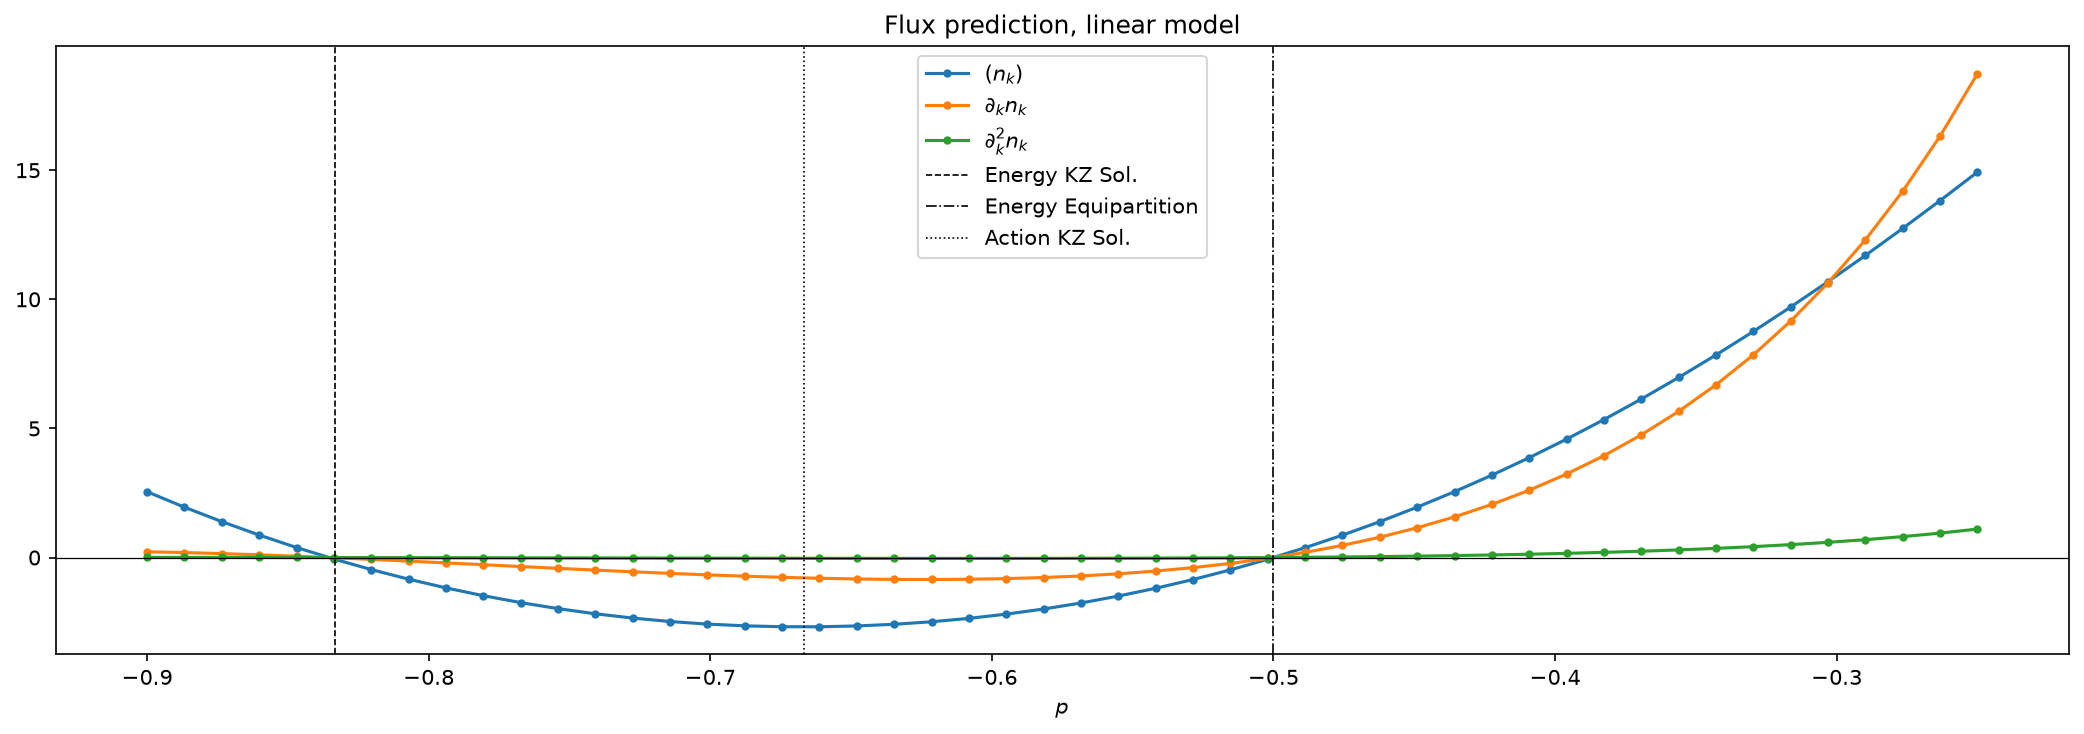
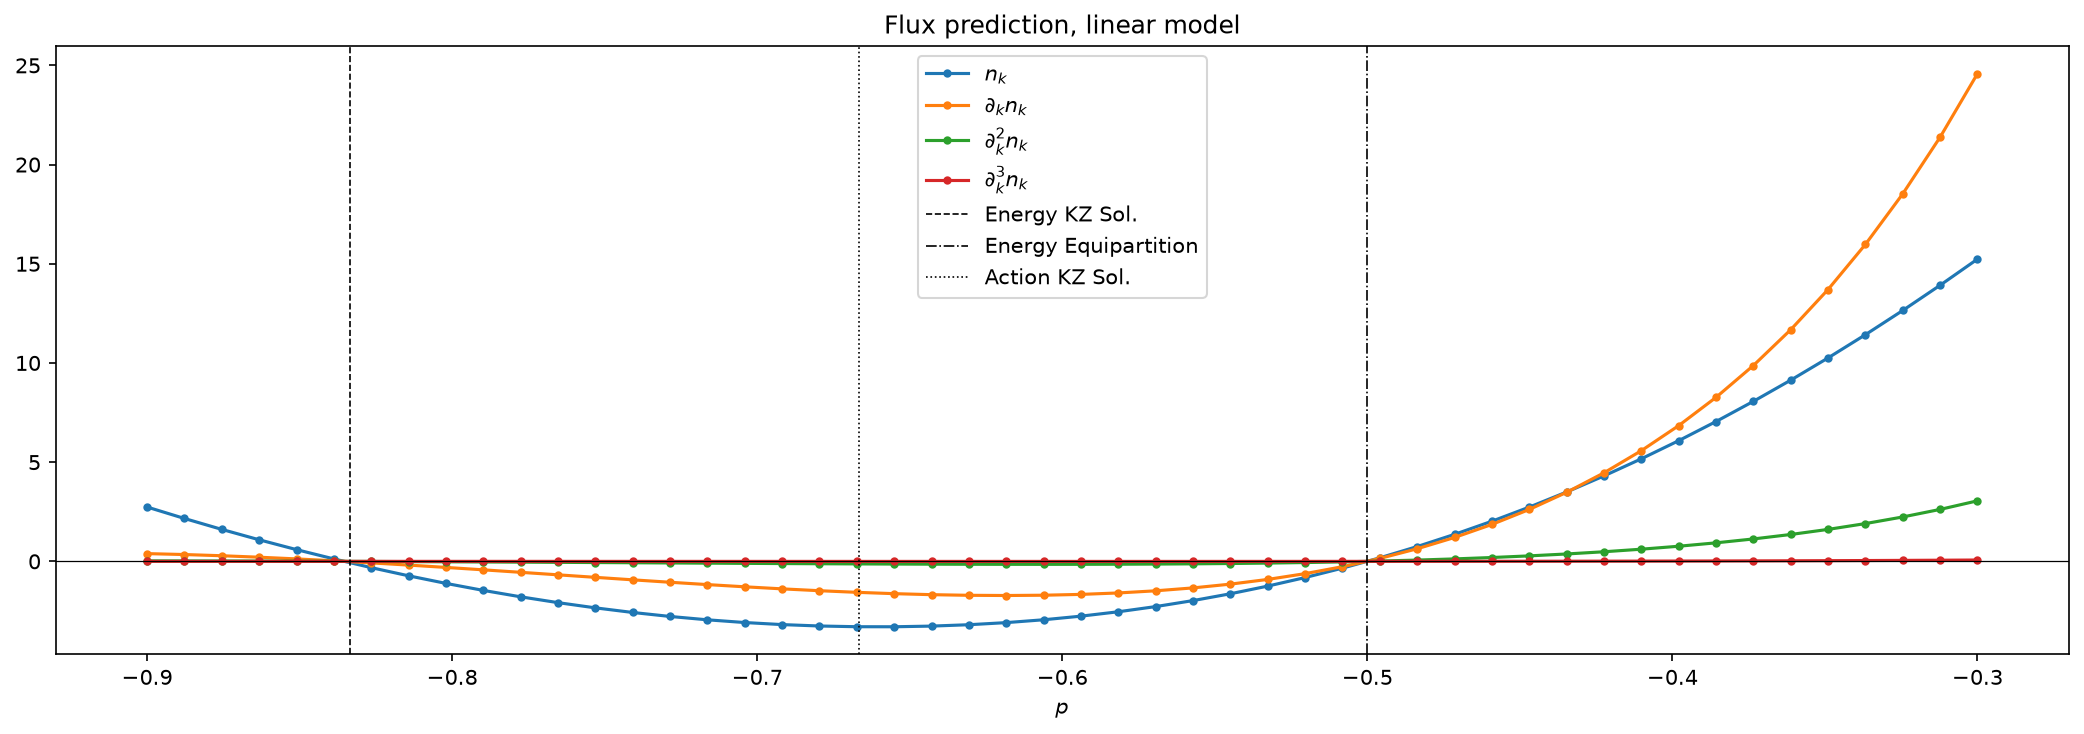
refactor: increase max_order to 3 in fitting functions and update derivative calculations

diff --git a/src/physics/linear_operator_library_mmt.py b/src/physics/linear_operator_library_mmt.py
@@ -13,13 +13,14 @@ def power_law_derivatives_linear(k, p, max_order, k_min, k_max):
     def nk(k,p): return N*(k ** p)
     def dk_nk(k,p): return N*(k ** (p-1)) *p 
     def d2k_nk2(k,p): return N*p*(p-1)*(k**(p-2))
+    def d3k_n_k3(k,p): return N*p*(p-1)*(p-2)*(k**(p-3))
 
     for order in range(max_order + 1):
-        derivs.append([nk, dk_nk, d2k_nk2][order](k, p))
+        derivs.append([nk, dk_nk, d2k_nk2, d3k_n_k3][order](k, p))
     return derivs
 
 def fit_operators_at_fixed_p_linear(p, A, k, k_min, k_max, beta=0.25,
-                                N=300, IntN=200, max_order=2, ridge_alpha = 1e-3):
+                                N=300, IntN=200, max_order=3, ridge_alpha = 1e-3):
     
     k = np.asarray(k)
 
@@ -39,10 +40,10 @@ def fit_operators_at_fixed_p_linear(p, A, k, k_min, k_max, beta=0.25,
     return (reg_exact.coef_,  r2_exact)
 
 def plot_coefficients_vs_p_linear(ps, A, k, k_min, k_max, beta=0.25,
-                               N=300, IntN=200, max_order=2, save_path=None, show=True):
+                               N=300, IntN=200, max_order=3, save_path=None, show=True):
     ps = np.asarray(ps)
 
-    labels = [r"$(n_k)$", r"$\partial_k n_k$", r"$\partial^2_k n_k$"
+    labels = [r"$n_k$", r"$\partial_k n_k$", r"$\partial^2_k n_k$", r"$\partial^3_k n_k$"
               ][:max_order + 1]
 
     res = { "exact": {lab: [] for lab in labels }}

diff --git a/main_mmt.py b/main_mmt.py
@@ -69,13 +69,13 @@ test_data = splits["test"]
 
 (coef_e_l, r2_e_l) = fit_operators_at_fixed_p_linear(
     p = -5/6, A = 1, k = np.linspace(0.1, 1, 50), k_min= config.K_MIN,
-    k_max = config.K_MAX, beta=0.25, N=300, IntN=200, max_order=2, ridge_alpha = 1e-3
+    k_max = config.K_MAX, beta=0.25, N=300, IntN=200, max_order=3, ridge_alpha = 1e-3
 )
 
 print("Coefficienti (solver MMT): ", coef_e_l, "| R^2: ", r2_e_l)
 
 plot_coefficients_vs_p_linear(
-    ps = np.linspace(-0.9, -0.25, 50), A = 1, k = np.linspace(0.1, 1.0, 50), beta = 0.25, 
-    k_min = config.K_MIN, k_max = config.K_MAX, N=300, IntN=200, max_order=2,
+    ps = np.linspace(-0.9, -0.3, 50), A = 1, k = np.linspace(0.1, 1.0, 50), beta = 0.25, 
+    k_min = config.K_MIN, k_max = config.K_MAX, N=300, IntN=200, max_order=3,
     save_path="outputs_mmt/coefficients_vs_p_mmt_linear", show=False 
 )
